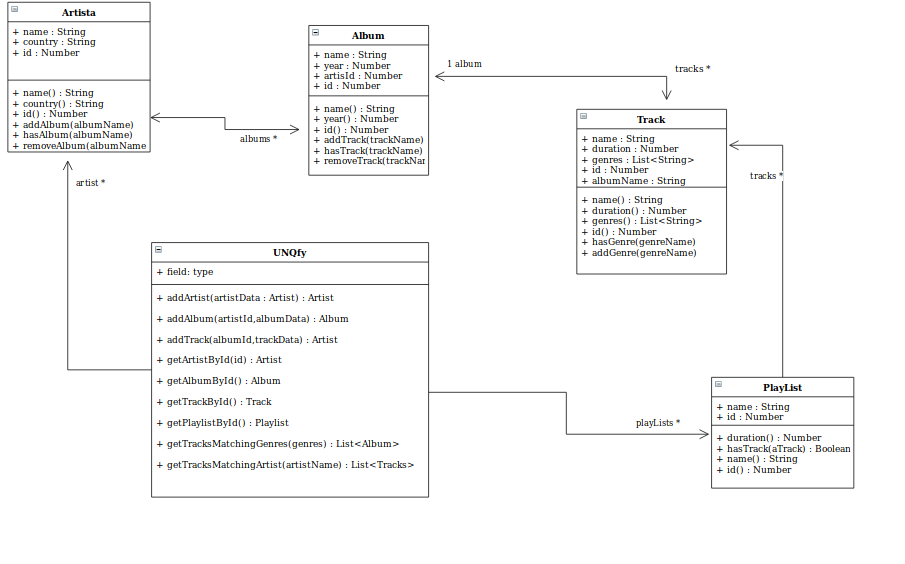
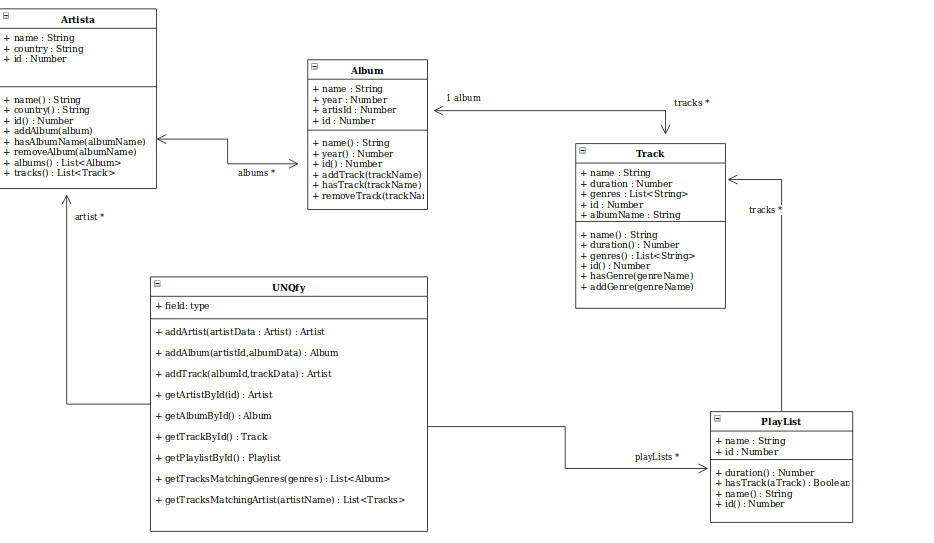
addArtist from Console

diff --git a/visado_1/exports/artist.js b/visado_1/exports/artist.js
@@ -1,20 +1,26 @@
 class Artista{
-    constructor(_artistName,_artistCountry){
-      this.id = "nuevo id <----- codigo para nuevo id? algo que genere nuevos ids"
-      this.name = _artistName
-      this.country = _artistCountry
+
+    constructor(name,country){
+      this.id = 1
+      this.name = name
+      this.country = country
       this.albums = []
     }
-    addAlbum(albumName){
-        if(!this.albums.includes(albumName)){
-            this.albums.push(albumName)
+
+    addAlbum(album){
+        if(!this.albums.includes(album)){
+            this.albums.push(album)
         } else{
-            throw Error("El nombre del album ya existe")
+            throw Error("El album ya existe")
         }
     }
 
-    hasAlbum(albumName){
+    hasAlbumName(albumName){
         return this.albums.includes(albumName)
+    }
+
+    removeAlbum(album){
+        this.albums.pop(album)
     }
 }
 

diff --git a/visado_1/unqfy.js b/visado_1/unqfy.js
@@ -2,7 +2,7 @@
 const picklify = require('picklify'); // para cargar/guarfar unqfy
 const fs = require('fs'); // para cargar/guarfar unqfy
 const Artista = require('./exports/artist.js')
-const Album = requiere('./exports/album.js')
+const Album = require('./exports/album.js')
 const Track = require('./exports/track.js')
 
 
@@ -20,8 +20,9 @@ class UNQfy {
 
   addArtist(artistData) {
    if(!this.artists.includes(artistData.name)){ 
-    artist = new Artista(name = artistData.name , country = artistData.country)
+    let artist = new Artista(artistData.name,artistData.country)
     this.artists.push(artist)
+    console.log('Se ha agregado el artista ' + artistData.name + ' con el id ' + artist.artistID)
     return artist
    } else{
       throw Error("El artista ya se encuentra en el sistema")

diff --git a/visado_1/main.js b/visado_1/main.js
@@ -1,5 +1,3 @@
-
-
 const fs = require('fs'); // necesitado para guardar/cargar unqfy
 const unqmod = require('./unqfy'); // importamos el modulo unqfy
 
@@ -46,13 +44,17 @@ function saveUNQfy(unqfy, filename = 'data.json') {
 
 */
 
+function handleError(e){
+  console.log(e.message)
+}
+
 function addArtist(name, country) {
   const unqfy = getUNQfy()
   try {
-      unqfy.addArtist({name: name, country: country});
+      unqfy.addArtist({name,country});
   }
   catch (e) {
-      console.log(e.message)
+      handleError(e)
   }
   saveUNQfy(unqfy)
 }
